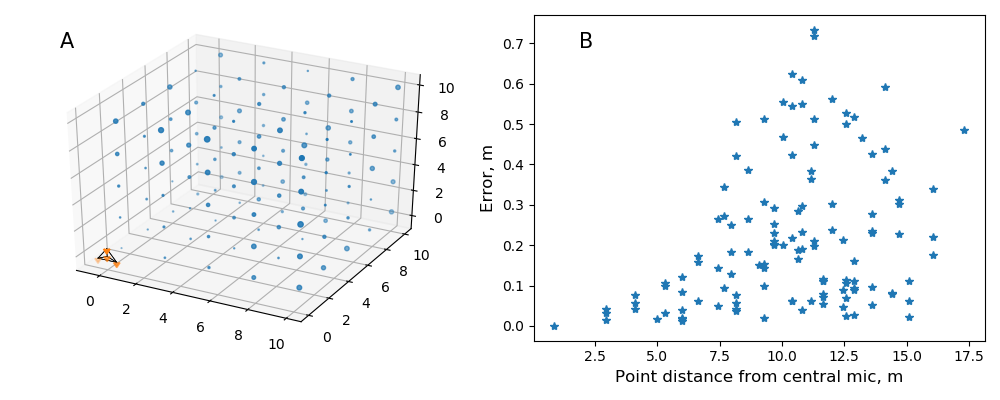
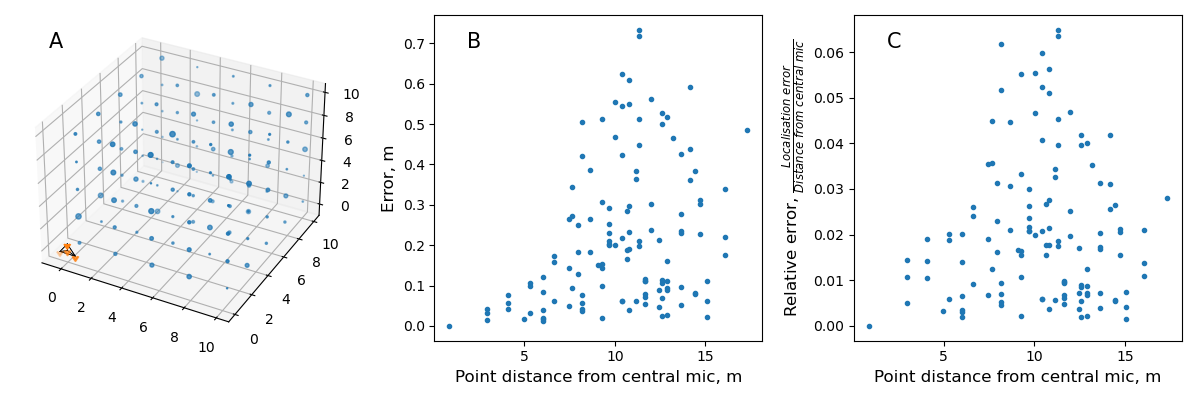
include comments on MS and update figures

diff --git a/data_for_figures/analysis/simulated_and_toadsuite.py b/data_for_figures/analysis/simulated_and_toadsuite.py
@@ -10,7 +10,7 @@ Created on Thu Jun 11 14:08:53 2020
 
 Acknowledgements
 ---------------
-Thanks to Lena De Framond for running the simulated audio files on TOADSuite!
+Thanks to Lena De Framond for running the simulated audio files on the TOADSuite!
 
 @author: tbeleyur
 """
@@ -35,7 +35,6 @@ def draw_mic_array(mic_xyz, draw_axis):
             mic_line = np.row_stack((each,every))
             draw_axis.plot(mic_line[:,0],mic_line[:,1],mic_line[:,2],'k', linewidth=0.5)
     return draw_axis
-        
 
 #### Tristar points  ##########################################################
 # load the simulated points:
@@ -51,6 +50,12 @@ toadsuite_points = np.float64(toadsuite_xyz.to_numpy())
 tristar_diff = np.abs(tristar_points - toadsuite_points)
 tristar_euclidean_error = np.apply_along_axis(calculate_euclidean_error, 1, tristar_diff)
 
+# relative error
+distance_from_mic0 = tristar_point_raw.apply(calculate_euclidean_error, 1)
+tristar_relative_error = tristar_euclidean_error/distance_from_mic0
+
+
+
 points_and_error = np.column_stack((tristar_points, tristar_euclidean_error))
 all_data = np.column_stack((toadsuite_points, points_and_error))
 pd.DataFrame(data=all_data, columns=['toadsuite_x','toadsuite_y','toadsuite_z',
@@ -59,8 +64,9 @@ pd.DataFrame(data=all_data, columns=['toadsuite_x','toadsuite_y','toadsuite_z',
 
 trist_norm_error = (tristar_euclidean_error+0.01)/(np.min(tristar_euclidean_error)+0.01)
 
-plt.figure(figsize=(10,4))
-ax0 = plt.subplot(121,projection='3d')
+
+plt.figure(figsize=(12,4))
+ax0 = plt.subplot(131,projection='3d')
 ax0.view_init(elev=32., azim=-62)
 ax0.scatter(tristar_points[:,0], tristar_points[:,1], tristar_points[:,2],
                                                 '*', s=trist_norm_error*0.2)
@@ -71,14 +77,23 @@ plt.tight_layout()
 
 dist_from_central_mic = [scipy.spatial.distance.euclidean(each, [0,0,0]) for each in tristar_points]
 # radial distance - error plot 
-ax12 = plt.subplot(122)
-plt.plot(dist_from_central_mic, points_and_error[:,-1],'*')
+ax12 = plt.subplot(132)
+plt.plot(dist_from_central_mic, points_and_error[:,-1],'.')
 plt.ylabel('Error, m', fontsize=12);plt.xlabel('Point distance from central mic, m', fontsize=12)
 plt.xticks(fontsize=10);plt.yticks(fontsize=10)
 plt.text(0.1, 0.9, "B", transform=ax12.transAxes, fontsize=15)
 plt.tight_layout()
-plt.savefig('fig1_points_and_error.png')
 
+
+ax13 = plt.subplot(133)
+plt.plot(distance_from_mic0, tristar_relative_error,'.')
+plt.ylabel('Relative error, $\\frac{Localisation\ error}{Distance\ from\ central\ mic} $', fontsize=12);
+plt.xlabel('Point distance from central mic, m', fontsize=12)
+plt.xticks(fontsize=10);plt.yticks(fontsize=10)
+plt.text(0.1, 0.9, "C", transform=ax13.transAxes, fontsize=15)
+plt.tight_layout()
+
+plt.savefig('fig1_points_and_error.png')
 
 ##### Cave array points ##########################################################
 cave_points = pd.read_csv('../cave_source_positions.csv')
@@ -94,9 +109,13 @@ cave_mics = pd.read_csv('../cave_survey_without_mic_index.csv')
 cave_mics_xyz = cave_mics.to_numpy()
 cave_xyz = cave_points.to_numpy()
 
+# distance from mic 0 of the cave array
+delta_xyz_mic0 = cave_mics_xyz[0,:] - cave_points
+dist_from_mic0 = delta_xyz_mic0.apply(calculate_euclidean_error, 1)
+relative_error = cave_euclidean_error/dist_from_mic0
 
-plt.figure(figsize=(10,4))
-ax2 = plt.subplot(121, projection='3d')
+plt.figure(figsize=(12,4))
+ax2 = plt.subplot(131, projection='3d')
 ax2.scatter(cave_xyz[:,0],cave_xyz[:,1],cave_xyz[:,2],'*', s=norm_error*25)
 ax2.scatter(cave_mics_xyz[:,0], cave_mics_xyz[:,1],cave_mics_xyz[:,2],marker=11,)
 ax2.view_init(elev=41., azim=166)
@@ -106,10 +125,23 @@ draw_mic_array(cave_mics_xyz[7:,:],ax2)
 ax2.text2D(0.1, 0.9, "A", transform=ax2.transAxes, fontsize=15)
 plt.tight_layout()
 
-ax3 = plt.subplot(122)
-plt.hist(cave_euclidean_error, bins=np.arange(0,0.5,0.05),density=True)
-plt.ylabel('Count', fontsize=12);plt.xlabel('Error, m', fontsize=12)
+ax3 = plt.subplot(132)
+plt.plot(dist_from_mic0,cave_euclidean_error, '.')
+plt.ylabel('Error, m', fontsize=12);
+plt.xlabel('Point distance from tristar central mic, m', fontsize=12)
 plt.xticks(fontsize=10);plt.yticks(fontsize=10)
 plt.text(0.1,0.9,'B', transform=ax3.transAxes, fontsize=15)
 plt.tight_layout()
+
+ax4 = plt.subplot(133)
+plt.plot(dist_from_mic0,relative_error, '.')
+plt.ylabel('Relative error, $\\frac{Localisation\ error}{Distance\ from\ central\ mic} $', fontsize=12);
+plt.xlabel('Point distance from tristar central mic, m', fontsize=12)
+plt.xticks(fontsize=10);plt.yticks(fontsize=10)
+plt.text(0.1,0.9,'C', transform=ax4.transAxes, fontsize=15)
+plt.tight_layout()
+
+print(f'95%ile relative errors: {np.percentile(relative_error, [2.5,97.5]) }')
+
 plt.savefig('fig2_points_and_error.png')
+

diff --git a/paper.md b/paper.md
@@ -2,15 +2,16 @@
 title: 'tacost: Testing and simulating the performance of acoustic tracking systems'
 authors:
 - affiliation: '1'
-  name: 'Thejasvi Beleyur'
+  name: Thejasvi Beleyur
   orcid: 0000-0001-5360-4383
+date: "14 June 2020"
+output:
+  pdf_document: default
+  word_document: default
 affiliations:
 - index: 1
   name: Acoustic and Functional Ecology, Max Planck Institute for Ornithology, Seewiesen,
     Germany
-
-date: "14 June 2020"
-output: pdf_document
 bibliography: references.bib
 tags:
 - Python
@@ -19,59 +20,50 @@ tags:
 - sound
 - acoustic tracking
 - echolocation
-
 ---
 
 # Introduction
-Acoustic tracking is a common method used to study vocalising animals such as birds and echolocating animals like bats and cetaceans [@suzuki2017harkbird;@aubauer1996acoustical;@mohl2000sperm;@Goerlitz2010;@Hugel2017;@Lewanzik2018].
-Using acoustic tracking, biologists can detect the position of the animal, its identity and track it through space as it moves over time. The localisation accuracy of an acoustic tracking system depends on a variety  of factors. There are *internal* factors such as microphone array geometry,
+Acoustic tracking is a common method used to study vocalising animals such as birds, bats and cetaceans [@suzuki2017harkbird;@aubauer1996acoustical;@mohl2000sperm;@Hugel2017;@Holderied20032293;@rhinehart2020a;@blumstein2011a].
+Using acoustic tracking, biologists can detect the position of the animal and track it through space as it moves over time. The localisation accuracy of an acoustic tracking system depends on a variety  of factors. There are *internal* factors such as microphone array geometry,
 signal processing routines, and the mathematical formulations used to localise sounds (time-of-arrival, time-of-arrival-difference, angle-of-arrival, power-steering). The *external*
 factors include aspects related to the actual signal itself, ie. signal-to-noise ratio, and spectro-temporal properties of the emitted sound (noise, linear/hyperbolic sweep) [@Wahlberg1999]. 
-While experiments and analytical modelling may be the definitive way to determine a tracking system's end accuracy, simulations allow  a quick and systematic method to estimate the source of tracking errors. 
-`tacost` provides a flexible workflow to manipulate and study the effect of both internal and external factors. 
+While experiments and analytical modelling may be the definitive way to determine a tracking system's end accuracy, simulations allow  a quick and systematic method to estimate the source of tracking errors. `tacost` provides a flexible workflow to manipulate and study the effect of both internal and external factors. `tacost`  generates audio files for source positions and array geometries specified by the user. This allows the user to analyse the efficacy of their tracking system's baseline performance.
 
 # Statement of need
-Generating simulated audio for a set of source sounds and a given array configuration is a relatively simple task. However, to this author's knowledge, there 
-are no publicly available, tested and documented packages published to date. Codebases that are publicly available have the advantage of being used by a larger user-base and can thus 
-benefit from bug discoveries much faster than in-house or individually written one-time use scripts.  `tacost` provides a robust and well-documented software workflow [@Taschuk2016]  with user 
-and developer friendly documentation [hosted online](https://tacost.readthedocs.io/en/latest/). `tacost` contributes to the Python scientific ecosystem and hopes to promote the growth of acoustics and 
-bioacoustic research in open-source languages like Python. In particular, `tacost` will help researchers working in the field of acoustics and bio-acoustics plan and examine the behaviour of their acoustic tracking systems. 
+Generating simulated audio for a set of source sounds, positions and a given array configuration is a relatively simple task. However, to this my knowledge, there 
+are no publicly available, tested and documented packages for this task published to date. Codebases that are publicly available have the advantage of being used by a larger user-base and can thus benefit from bug discoveries much faster than in-house or individually written one-time use scripts.  `tacost` provides a robust and well-documented software workflow [@Taschuk2016]  with user and developer friendly documentation [hosted online](https://tacost.readthedocs.io/en/latest/). `tacost` contributes to the Python scientific ecosystem in the hope of promoting the growth of acoustics and bioacoustic research in open-source languages like Python. In particular, `tacost` will help researchers working in the field of acoustics and bio-acoustics plan and examine the behaviour of their acoustic tracking systems. 
 
 
 # Design 
 The design of `tacost` focusses on a reproducible and user-friendly method [@Wilson2012] to generate WAV files that form the input for acoustic tracking softwares. Users may interact with `tacost` through custom-written Python scripts
-by calling it as a Python package with ```import tacost``` or in the 'no-coding' mode. The 'no-coding' mode is especially suitable for users unfamiliar with Python. The no-coding mode is based around a parameter file which is used to specify various parts of the WAV file to be created.
-Through the parameter file the user can define the emitted sound, positions, inter-sound-intervals, sampling rate and other relevant variables to customise the test scenario.
+by calling it as a Python package with ```import tacost``` or in the 'no-coding' mode. The 'no-coding' mode is especially suitable for users unfamiliar with Python. The no-coding mode is based around a parameter file that is used to specify various parts of the WAV file to be created.
+Through the parameter file the user can specify the emitted sound, source positions, inter-sound-intervals, sampling rate and other relevant variables to customise the test scenario.
 
 # Examples
 
-A microphone array's localisation accuracy may not be uniform over 3D space [@aubauer1996acoustical;@Wahlberg1999]. This accuracy is independent of the actual signal and recording conditions of the input data, but rather dependent on the mathematical formulations and array geometry used to calculate source sound position.
-The accuracy of a few microphone array configurations have been characterised analytically [@aubauer1996acoustical] and experimentally [@Wahlberg1999]. While reflecting the system's capabilities, analytical 
+The localisation accuracy of a microphone array may not be uniform over 3D space [@aubauer1996acoustical;@Wahlberg1999]. This accuracy is independent of the actual signal and recording conditions of the input data, but rather dependent on the array geometry and mathematical formulations used to record and calculate sound source position.
+
+The accuracy of a few microphone array configurations has been characterised analytically [@aubauer1996acoustical] and experimentally [@Wahlberg1999]. While reflecting the system's capabilities, analytical 
 and experimental characterisations are often time-intensive. In contrast, simulation uncovers the intrinsic accuracy of an array relatively quickly through the use of audio files with simulated emission points spread across the recording volume of interest. 
-'tacost' can be used to characterise the maximal localisation accuracy of an acoustic tracking system with novel array geometries and recording scenarios. In Example 1, I show how `tacost` can be used to verify known trends in 
-localisation error with the  the tristar60, a commonly used array system. In Example 2, I show how `tacost` can be used to estimate the expected localisation error in a multi-microphone array with a novel and field-friendly geometry.
+`tacost` can be used to characterise the maximal localisation accuracy of an acoustic tracking system with novel array geometries and recording scenarios. In Example 1, I show how `tacost` can be used to verify known trends in 
+localisation error with the tristar60, a commonly used array system. In Example 2, I show how `tacost` can be used to estimate the expected localisation error in a multi-microphone array with a novel and field-friendly geometry.
 
 ## 1. Localisation accuracy of the tristar60 system
-The tristar60 array is a commonly used array geometry [@Hugel2017;@Lewanzik2018] with 4 microphones in a plane on an inverted T array. Three peripheral microphones are placed 120$^{\circ}$ to
+The tristar60 array is a commonly used array geometry [@aubauer1996acoustical;@Holderied20032293;@Hugel2017;@Lewanzik2018] with 4 microphones in a plane on an inverted T array. Three peripheral microphones are placed 120$^{\circ}$ to
 each other at 60 cm distance from the central mic on the inverted T-array. A series of emission points spanning the upper right quadrant of the array were simulated. The emitted sound was set to a linear sweep. 
-The output WAV files from `tacost` were run through the TOADSuite package [@holger_toadsuite_manual;@toadsuite_peterstilz], a software package that localises sounds using the time-of-arrival-differences across channels. \autoref{Figure 1} shows the localisation accuracy map 
-for the tristar60 microphone array. It can be seen that localisation error increases with increasing radial distance from the central microphone, and remains <10% of the radial distance. 
+The output WAV files from `tacost` were run through the TOADSuite package [@holger_toadsuite_manual;@toadsuite_peterstilz;@Hugel2017;@Lewanzik2018], a software package that localises sounds using the time-of-arrival-differences across channels. \autoref{Figure 1} shows the localisation accuracy map 
+for the tristar60 microphone array. It can be seen that localisation error increases with increasing radial distance from the central microphone, and remains <7% of the radial distance. 
 
-![Localisation accuracy of a tristar60 array localised with time-of-arrival-differences. A) The line-connected points (blue) represent the tristar60 microphone array,
- while the free-standing points (orange) are  the simulated emission points which form a 'calibration grid' B) The localisation error increases with increasing radial distance of source from the central microphone.
-Each simulated point is shown as a dot, and the size of the dot is proportional to the tracking error. The errors range between 0-0.7m.\label{Figure 1}](data_for_figures/analysis/fig1_points_and_error.png)
+![Accuracy of a sound source localisation based on time-of-arrival-differences with a tristar60 array. A)
+The tristar60 microphone array is placed at the origin of the coordinate system (bottom left, orange dots connected by black lines). The blue points are the simulated source positions which form a 'calibration grid'. The size of each dot is proportional to the localisation error B) The localisation error increases with increasing radial distance of source from the central microphone.Each simulated point is shown as a dot, and the size of the dot is proportional to the tracking error. The error is 
+the euclidean distance between the predicted and simulated source point.The errors range between 0-0.7m. C) The relative error of localisation. Even though absolute localisation error tends to increase with distance from array, all localisation happens with <7% relative error. \label{Figure  1}](data_for_figures/analysis/fig1_points_and_error.png)
 
 ## 2. Localisation accuracy of a multi-microphone array in the field 
-While recording in the field, it may be difficult to use fixed arrays mounted on stands. Arrays on stands are difficult to carry and may also influence the behaviour of the animals being recorded. It is thus advantageous to 
-use less obtrusive micorphone geometries, for instance where the microphones are placed on the walls of a cave or on trees. These microphone geometries are flexible, but their localisation accuracy is hard to 
-characterise analytically. `tacost` is an ideal tool for such situations. \autoref{Figure 2} shows the microphone array geometry and recording system described in [@Batstone2019]. In short, the array consisted of 11 microphones, 4 of them on a 120cm tristar, and 
-the remaining 7 microphones attached to the walls of a cave. A series of sound emission points were created simulating points in the volume enclosed by the array. The points matched the regions that echolocating bats flew within. The simulated sound was set to 
-a linear sweep, which mimicked that of a bat call. The `tacost` output WAV files were analysed with the TOADSuite[@holger_toadsuite_manual;@toadsuite_peterstilz]. The resulting accuracy map reveals that overall, the localisation error is between 7-30 centimetres for the given 
-emission points. This corresponds to a maximum error of upto 30cm in tracking the position at which a bat emitted a call. 
+While recording in the field, it may be difficult to use fixed arrays mounted on stands. Arrays on stands are difficult to carry and may also influence the behaviour of the animals being recorded. It is thus advantageous to use less obtrusive micorphone geometries, for instance by  placing microphones are placed on pre-existing structures such as the walls of a cave or trees. These microphone geometries are field-friendly, but their localisation accuracy is hard to characterise analytically. `tacost` is an ideal tool to explore the tracking performance of such flexibly placed microphone arrays. \autoref{Figure 2} shows the microphone array geometry and recording system described in [@Batstone2019]. In short, the array consisted of 11 microphones, 4 of them on a 120cm tristar, and the remaining 7 microphones attached to the walls of a cave. A series of sound emission points were created simulating points in the volume enclosed by the array. The points matched the volume echolocating bats flew within. The simulated sound was set to a linear sweep, which mimicked that of a bat call. The `tacost` output WAV files were analysed with the TOADSuite. The resulting accuracy map reveals that overall, the localisation error is between 7-30 centimetres for the given emission points. This corresponds to a maximum error of upto 30cm in tracking the position, and of upto 19% relative error. In contrast to the previous example highlighting the increase in tracking error with increasing source sound distance, these results show a somewhat different trend. The relative error is also much higher, and it may have to do with the positioning of the sound sources in the with reference to the array. The relative location of the sound source affects the tracking accuracy [@aubauer1996acoustical].
 
-![Localisation accuracy of a multi-microphone array in the field, localised with time-of-arrival-differences. A) The line-connected points (blue) represent the microphone array consisting of 11 microphones. Four microphones are in a tristar 120 array (tristar array with 120cm radial distance from central mic), and 
-the remaining 7 mics are placed on the walls of the cave. The free-standing points (orange) are  the simulated emission points which form a 'calibration grid' B) The distribution of localisation error. The error is 
-the euclidean distance between the predicted and simulated point. Each simulated point is shown as a dot, and the size of the dot is proportional to the tracking error. The localisation error is between 0.07-0.32 m for the given points. \label{Figure 2}](data_for_figures/analysis/fig2_points_and_error.png)
+![Localisation accuracy of a multi-microphone array in the field, localised with time-of-arrival-differences. A) The line-connected points (blue) represent the microphone array consisting of 11 microphones. Four microphones are in a tristar 120 array (left, tristar array with 120cm radial distance from central mic), and 
+the remaining 7 mics are placed on the walls of the cave (top right, two quadirlateral outlines joined at a common vertex represent the 7 mics on the cave walls). The free-standing points (blue) are  the simulated emission points which form a 'calibration grid' B) The distribution of localisation error. The error is 
+the euclidean distance between the predicted and simulated point. Each simulated point is shown as a dot, and the size of the dot is proportional to the tracking error. The localisation error is between 0.07-0.32 m for the given points. C) The relative localisation error with reference to the central mic of the 120 cm tristar array microphone. The 95%ile bounds of tracking error lie between 3.7-16.6%, with a maximum of 18.8% error. Even points that are nearby seem to be localised with a higher relative error. This higher relative error may be the result of sound source position with reference to the microphone array.   \label{Figure 2}](data_for_figures/analysis/fig2_points_and_error.png)
 
 # Future directions
 `tacost` as it stands is currently written to implement a first-order assessment of a tracking system's accuracy. The package has been primarily written keeping acoustic signals propagating through air where the velocity of 
@@ -83,7 +75,6 @@ best able to do so.
 
 # Acknowledgements
 This work was supported by a doctoral fellowship from the German Academic Exchange Service (DAAD) and the International Max Planck Research School for Organismal Biology. 
-I would like to thank Lena De Framond for generating the acoustic localisation output, Holger R Goerlitz for helpful discussions on the topic of tracking, and the IT team at
-the Max-Planck Institute for Ornithology for their support. 
+I would like to thank Léna de Framond for generating the acoustic localisation output, Holger R Goerlitz for helpful comments on this manuscript and discussions on the topic of tracking, and the IT team atthe Max-Planck Institute for Ornithology for their support. 
 
 # References
